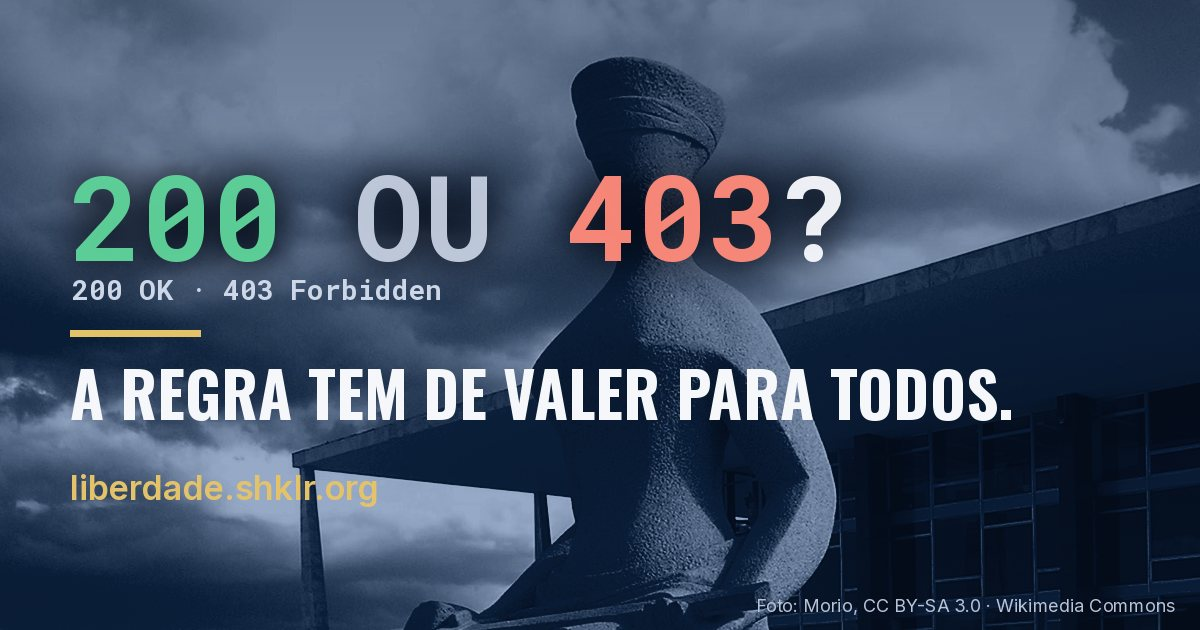
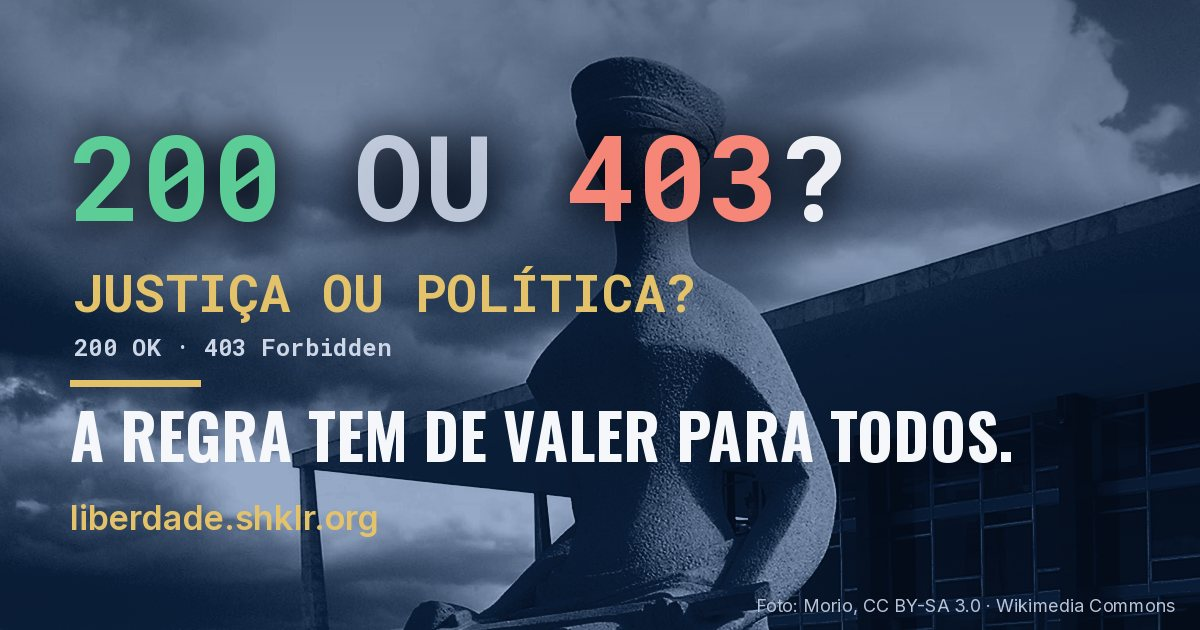
Intro: add 'Justiça ou política?' step, drop legend line 2; og.jpg v3

Changed region(s): [[0.0617, 0.181, 0.8633, 0.8444]]

diff --git a/index.html b/index.html
@@ -13,7 +13,7 @@
 <meta property="og:url" content="https://liberdade.shklr.org/">
 <meta property="og:locale" content="pt_BR">
 <meta property="og:locale:alternate" content="en_US">
-<meta property="og:image" content="https://liberdade.shklr.org/og.jpg?v=2">
+<meta property="og:image" content="https://liberdade.shklr.org/og.jpg?v=3">
 <meta property="og:image:type" content="image/jpeg">
 <meta property="og:image:width" content="1200">
 <meta property="og:image:height" content="630">
@@ -21,7 +21,7 @@
 <meta name="twitter:card" content="summary_large_image">
 <meta name="twitter:title" content="Liberdade — 200 ou 403?">
 <meta name="twitter:description" content="A regra tem de valer para todos. Liberdade, devido processo e respeito a quem serve, pela via legal e sem violência.">
-<meta name="twitter:image" content="https://liberdade.shklr.org/og.jpg?v=2">
+<meta name="twitter:image" content="https://liberdade.shklr.org/og.jpg?v=3">
 <meta name="twitter:image:alt" content="200 ou 403? A regra tem de valer para todos. Estátua A Justiça, em Brasília.">
 <meta name="twitter:site" content="@sergioshklr">
 <meta name="twitter:creator" content="@sergioshklr">
@@ -127,7 +127,7 @@ figcaption{font-size:.9rem;color:var(--mut);text-align:center;margin-top:6px}
 .intro .legend{margin:1.1em auto 0;max-width:34ch;font-family:var(--mono);font-weight:700;color:#cdd7e8;text-shadow:0 2px 14px rgba(2,8,20,.95)}
 .intro .legend p{margin:0}
 .intro .lg1{font-size:clamp(.8rem,3.3vw,1rem);line-height:1.35}
-.intro .lg2{margin-top:.5em!important;font-size:clamp(.72rem,3vw,.9rem);line-height:1.45;color:rgba(205,215,232,.85)}
+.intro .jp{margin:.7em auto 0;font-family:var(--mono);font-weight:700;font-size:clamp(1.25rem,6.2vw,2.1rem);line-height:1.15;color:var(--gold,#e8c35a);text-shadow:0 2px 16px rgba(2,8,20,.95)}
 .intro .rule{margin-top:.9em!important}
 .intro .s{display:block}
 .anim .intro .s:not(.s1){opacity:0;transform:translate3d(0,22px,0);transition:opacity .6s ease,transform .6s ease}
@@ -153,8 +153,9 @@ footer{text-align:center;color:var(--mut);font-size:.9rem;padding:24px 22px 48px
 <div class="ibg" aria-hidden="true"><img src="photos/justica-1080.webp" srcset="photos/justica-640.webp 640w, photos/justica-1080.webp 1080w, photos/justica-1600.webp 1600w" sizes="100vw" width="1080" height="1440" alt="" decoding="async" fetchpriority="high"></div>
 <div class="stage">
 <p class="q3" id="intro-q"><span class="s s1 ok">200</span><span class="s s2 or" data-pt="OU" data-en="OR">OU</span><span class="s s3 no">403<span class="q">?</span></span></p>
-<div class="s s4 legend"><p class="lg1" data-pt="200 OK: acesso permitido." data-en="200 OK: access granted.">200 OK: acesso permitido.</p><p class="lg1" data-pt="403 Forbidden: acesso negado." data-en="403 Forbidden: access denied.">403 Forbidden: acesso negado.</p><p class="lg2" data-pt="Na internet, respostas de um servidor. Aqui, uma pergunta:" data-en="Online, a server’s replies. Here, a question:">Na internet, respostas de um servidor. Aqui, uma pergunta:</p></div>
-<p class="s s5 rule" data-pt="A regra tem de valer para todos." data-en="The rule must apply to everyone.">A regra tem de valer para todos.</p>
+<p class="s s4 jp" data-pt="Justiça ou política?" data-en="Justice or politics?">Justiça ou política?</p>
+<div class="s s5 legend"><p class="lg1" data-pt="200 OK: acesso permitido." data-en="200 OK: access granted.">200 OK: acesso permitido.</p><p class="lg1" data-pt="403 Forbidden: acesso negado." data-en="403 Forbidden: access denied.">403 Forbidden: acesso negado.</p></div>
+<p class="s s6 rule" data-pt="A regra tem de valer para todos." data-en="The rule must apply to everyone.">A regra tem de valer para todos.</p>
 </div>
 <p class="cue" aria-hidden="true"><span data-pt="Role para baixo" data-en="Scroll">Role para baixo</span><svg class="ic" viewBox="0 0 24 24" fill="none" stroke="currentColor" stroke-width="2" stroke-linecap="round" stroke-linejoin="round" aria-hidden="true"><path d="m6 9 6 6 6-6"/></svg></p>
 <p class="icredit"><span data-pt="Escultura “A Justiça”, de Alfredo Ceschiatti. Foto: Morio, CC BY-SA 3.0 (tonalizada)" data-en="Sculpture “A Justiça” by Alfredo Ceschiatti. Photo: Morio, CC BY-SA 3.0 (toned)">Escultura “A Justiça”, de Alfredo Ceschiatti. Foto: Morio, CC BY-SA 3.0 (tonalizada)</span> · <a href="https://commons.wikimedia.org/wiki/File:A_Justica_Alfredo_Ceschiatti_Brasilia_Brasil.jpg" target="_blank" rel="noopener">Wikimedia Commons</a></p>
@@ -257,7 +258,7 @@ b.forEach(function(x){x.addEventListener('click',function(){set(x.dataset.set)})
 document.querySelectorAll('.yt .ytb').forEach(function(btn){btn.addEventListener('click',function(){var d=btn.parentNode,f=document.createElement('iframe');f.src='https://www.youtube-nocookie.com/embed/'+d.dataset.id+'?autoplay=1&start='+(parseInt(d.dataset.start,10)||0);f.title=btn.getAttribute('aria-label');f.allow='autoplay; encrypted-media; picture-in-picture; fullscreen';f.allowFullscreen=true;f.referrerPolicy='strict-origin-when-cross-origin';d.replaceChild(f,btn);f.focus()})});
 var I=document.querySelector('.intro');
 if(I&&document.documentElement.classList.contains('anim')){
-var G=I.querySelector('.ibg'),S=I.querySelectorAll('.s'),C=I.querySelector('.cue'),T=[0,.15,.3,.47,.66],st=-1,ticking=false;
+var G=I.querySelector('.ibg'),S=I.querySelectorAll('.s'),C=I.querySelector('.cue'),T=[0,.13,.26,.4,.53,.68],st=-1,ticking=false;
 function up(){ticking=false;var r=I.getBoundingClientRect(),tot=r.height-innerHeight,p=tot>0?Math.min(1,Math.max(0,-r.top/tot)):1;
 G.style.transform='translate3d(0,'+(-p*10).toFixed(2)+'%,0)';
 var n=0;for(var i=0;i<T.length;i++)if(p>=T[i])n=i;

diff --git a/template.html b/template.html
@@ -13,7 +13,7 @@
 <meta property="og:url" content="https://liberdade.shklr.org/">
 <meta property="og:locale" content="pt_BR">
 <meta property="og:locale:alternate" content="en_US">
-<meta property="og:image" content="https://liberdade.shklr.org/og.jpg?v=2">
+<meta property="og:image" content="https://liberdade.shklr.org/og.jpg?v=3">
 <meta property="og:image:type" content="image/jpeg">
 <meta property="og:image:width" content="1200">
 <meta property="og:image:height" content="630">
@@ -21,7 +21,7 @@
 <meta name="twitter:card" content="summary_large_image">
 <meta name="twitter:title" content="Liberdade — 200 ou 403?">
 <meta name="twitter:description" content="A regra tem de valer para todos. Liberdade, devido processo e respeito a quem serve, pela via legal e sem violência.">
-<meta name="twitter:image" content="https://liberdade.shklr.org/og.jpg?v=2">
+<meta name="twitter:image" content="https://liberdade.shklr.org/og.jpg?v=3">
 <meta name="twitter:image:alt" content="200 ou 403? A regra tem de valer para todos. Estátua A Justiça, em Brasília.">
 <meta name="twitter:site" content="@sergioshklr">
 <meta name="twitter:creator" content="@sergioshklr">
@@ -127,7 +127,7 @@ figcaption{font-size:.9rem;color:var(--mut);text-align:center;margin-top:6px}
 .intro .legend{margin:1.1em auto 0;max-width:34ch;font-family:var(--mono);font-weight:700;color:#cdd7e8;text-shadow:0 2px 14px rgba(2,8,20,.95)}
 .intro .legend p{margin:0}
 .intro .lg1{font-size:clamp(.8rem,3.3vw,1rem);line-height:1.35}
-.intro .lg2{margin-top:.5em!important;font-size:clamp(.72rem,3vw,.9rem);line-height:1.45;color:rgba(205,215,232,.85)}
+.intro .jp{margin:.7em auto 0;font-family:var(--mono);font-weight:700;font-size:clamp(1.25rem,6.2vw,2.1rem);line-height:1.15;color:var(--gold,#e8c35a);text-shadow:0 2px 16px rgba(2,8,20,.95)}
 .intro .rule{margin-top:.9em!important}
 .intro .s{display:block}
 .anim .intro .s:not(.s1){opacity:0;transform:translate3d(0,22px,0);transition:opacity .6s ease,transform .6s ease}
@@ -161,7 +161,7 @@ b.forEach(function(x){x.addEventListener('click',function(){set(x.dataset.set)})
 document.querySelectorAll('.yt .ytb').forEach(function(btn){btn.addEventListener('click',function(){var d=btn.parentNode,f=document.createElement('iframe');f.src='https://www.youtube-nocookie.com/embed/'+d.dataset.id+'?autoplay=1&start='+(parseInt(d.dataset.start,10)||0);f.title=btn.getAttribute('aria-label');f.allow='autoplay; encrypted-media; picture-in-picture; fullscreen';f.allowFullscreen=true;f.referrerPolicy='strict-origin-when-cross-origin';d.replaceChild(f,btn);f.focus()})});
 var I=document.querySelector('.intro');
 if(I&&document.documentElement.classList.contains('anim')){
-var G=I.querySelector('.ibg'),S=I.querySelectorAll('.s'),C=I.querySelector('.cue'),T=[0,.15,.3,.47,.66],st=-1,ticking=false;
+var G=I.querySelector('.ibg'),S=I.querySelectorAll('.s'),C=I.querySelector('.cue'),T=[0,.13,.26,.4,.53,.68],st=-1,ticking=false;
 function up(){ticking=false;var r=I.getBoundingClientRect(),tot=r.height-innerHeight,p=tot>0?Math.min(1,Math.max(0,-r.top/tot)):1;
 G.style.transform='translate3d(0,'+(-p*10).toFixed(2)+'%,0)';
 var n=0;for(var i=0;i<T.length;i++)if(p>=T[i])n=i;

diff --git a/build.py b/build.py
@@ -38,8 +38,9 @@ body=f'''
 <div class="ibg" aria-hidden="true"><img src="photos/justica-1080.webp" srcset="photos/justica-640.webp 640w, photos/justica-1080.webp 1080w, photos/justica-1600.webp 1600w" sizes="100vw" width="1080" height="1440" alt="" decoding="async" fetchpriority="high"></div>
 <div class="stage">
 <p class="q3" id="intro-q"><span class="s s1 ok">200</span><span class="s s2 or" data-pt="OU" data-en="OR">OU</span><span class="s s3 no">403<span class="q">?</span></span></p>
-<div class="s s4 legend">{t("p","200 OK: acesso permitido.","200 OK: access granted.","lg1")}{t("p","403 Forbidden: acesso negado.","403 Forbidden: access denied.","lg1")}{t("p","Na internet, respostas de um servidor. Aqui, uma pergunta:","Online, a server’s replies. Here, a question:","lg2")}</div>
-<p class="s s5 rule" data-pt="A regra tem de valer para todos." data-en="The rule must apply to everyone.">A regra tem de valer para todos.</p>
+<p class="s s4 jp" data-pt="Justiça ou política?" data-en="Justice or politics?">Justiça ou política?</p>
+<div class="s s5 legend">{t("p","200 OK: acesso permitido.","200 OK: access granted.","lg1")}{t("p","403 Forbidden: acesso negado.","403 Forbidden: access denied.","lg1")}</div>
+<p class="s s6 rule" data-pt="A regra tem de valer para todos." data-en="The rule must apply to everyone.">A regra tem de valer para todos.</p>
 </div>
 <p class="cue" aria-hidden="true"><span data-pt="Role para baixo" data-en="Scroll">Role para baixo</span>{ic("chevron-down")}</p>
 <p class="icredit">{t("span","Escultura “A Justiça”, de Alfredo Ceschiatti. Foto: Morio, CC BY-SA 3.0 (tonalizada)","Sculpture “A Justiça” by Alfredo Ceschiatti. Photo: Morio, CC BY-SA 3.0 (toned)")} · <a href="https://commons.wikimedia.org/wiki/File:A_Justica_Alfredo_Ceschiatti_Brasilia_Brasil.jpg" target="_blank" rel="noopener">Wikimedia Commons</a></p>

diff --git a/tools/make_intro.py b/tools/make_intro.py
@@ -19,16 +19,17 @@ img=bg(W,1700,0.62).crop((0,70,W,70+H))
 d=ImageDraw.Draw(img)
 L=Image.new("RGBA",img.size,(0,0,0,0)); dl=ImageDraw.Draw(L)
 b=F(MONO,118,"Bold"); parts=[("200",GREEN,245),(" OU ",(205,215,232),230),("403",RED,245),("?",WHITE,245)]
-x=70;y=215
+x=70;y=175
 for p,c,a in parts: dl.text((x,y),p,font=b,fill=c+(a,),anchor="lm"); x+=dl.textlength(p,font=b)
 a=L.getchannel("A"); sh=Image.new("RGBA",img.size,(2,8,20,0)); sh.putalpha(a.filter(ImageFilter.MaxFilter(9)).filter(ImageFilter.GaussianBlur(20)))
 img=Image.alpha_composite(Image.alpha_composite(img,sh),L)
-ImageDraw.Draw(img).text((72,300),"200 OK · 403 Forbidden",font=F(MONO,28,"Bold"),fill=(205,215,232),anchor="ls")
+ImageDraw.Draw(img).text((72,312),"JUSTIÇA OU POLÍTICA?",font=F(MONO,52,"Bold"),fill=GOLD,anchor="ls")
+ImageDraw.Draw(img).text((74,356),"200 OK · 403 Forbidden",font=F(MONO,24,"Bold"),fill=(205,215,232),anchor="ls")
 d=ImageDraw.Draw(img)
 hf=F(OSW,62,"Bold")
-d.rectangle((70,330,70+130,336),fill=GOLD)
-d.text((70,420),"A REGRA TEM DE VALER PARA TODOS.",font=hf,fill=WHITE,anchor="ls")
-d.text((70,500),"liberdade.shklr.org",font=F(INTER,34,"SemiBold"),fill=GOLD,anchor="ls")
+d.rectangle((70,380,70+130,386),fill=GOLD)
+d.text((70,462),"A REGRA TEM DE VALER PARA TODOS.",font=hf,fill=WHITE,anchor="ls")
+d.text((70,530),"liberdade.shklr.org",font=F(INTER,34,"SemiBold"),fill=GOLD,anchor="ls")
 d.text((W-24,H-18),CREDIT,font=F(INTER,18,"Regular"),fill=MUTED,anchor="rs")
 img.convert("RGB").save('/workspace/liberdade/og.jpg',quality=84,optimize=True,progressive=True)
 print('og',os.path.getsize('/workspace/liberdade/og.jpg'))
